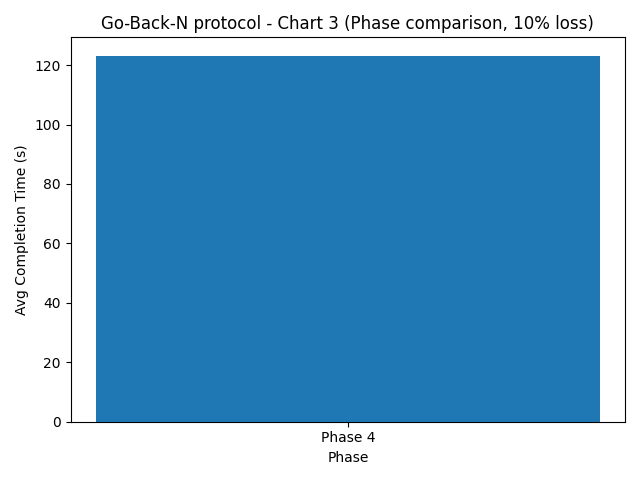
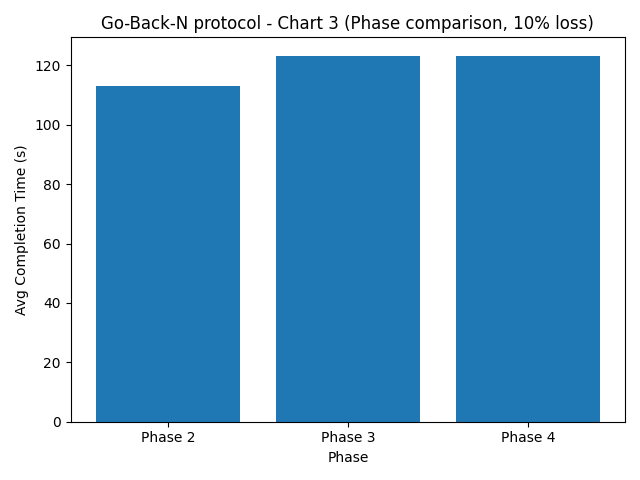
plot 3 is in

diff --git a/project_folders/4_phase/src/plotter.py b/project_folders/4_phase/src/plotter.py
@@ -173,12 +173,20 @@ def generate_chart3():
     Chart 3 (Bar graph): Phase (x-axis) over Average completion time (y-axis)
     Plot line expected: [PLOT] <time>, chart:3, phase:<1-4>, error_rate:0.10, duration:<sec>
     '''
-    # Every line now carries phase:4, so filter to the fixed comparison config:
-    # 10% loss, default window N=10, Option 5 (the Phase 4 representative point).
-    # NOTE: Phases 1-3 are not implemented yet (TODO) - this currently plots Phase 4 only.
-    data = parse_plot_logs(['phase', 'sc', 'error_rate', 'N', 'duration'])
-    data = [d for d in data
-            if round(d['error_rate'] * 100) == 10 and d['N'] == 10 and d['sc'] == 5]
+    # Chart 3 compares one representative point per phase at the fixed 10% impairment.
+    # Phase 4's log holds MANY lines at 10% (Chart 1's sc 1-5 and Chart 2's N sweep),
+    # so its representative point must still be pinned to Option 5 @ N=10.
+    phase4 = parse_plot_logs(['phase', 'sc', 'error_rate', 'N', 'duration'])
+    phase4 = [d for d in phase4 if d['phase'] == 4
+              and round(d['error_rate'] * 100) == 10 and d['N'] == 10 and d['sc'] == 5]
+
+    # Earlier phases implemented different protocols and logged different sc/N fields,
+    # so their only common identity is phase + error_rate + duration. Each contributes
+    # a single 10% point, so matching on phase + error_rate alone is unambiguous.
+    legacy = parse_plot_logs(['phase', 'error_rate', 'duration'])
+    legacy = [d for d in legacy if d['phase'] != 4 and round(d['error_rate'] * 100) == 10]
+
+    data = phase4 + legacy
 
     # Group durations by phase number
     buckets = {}
